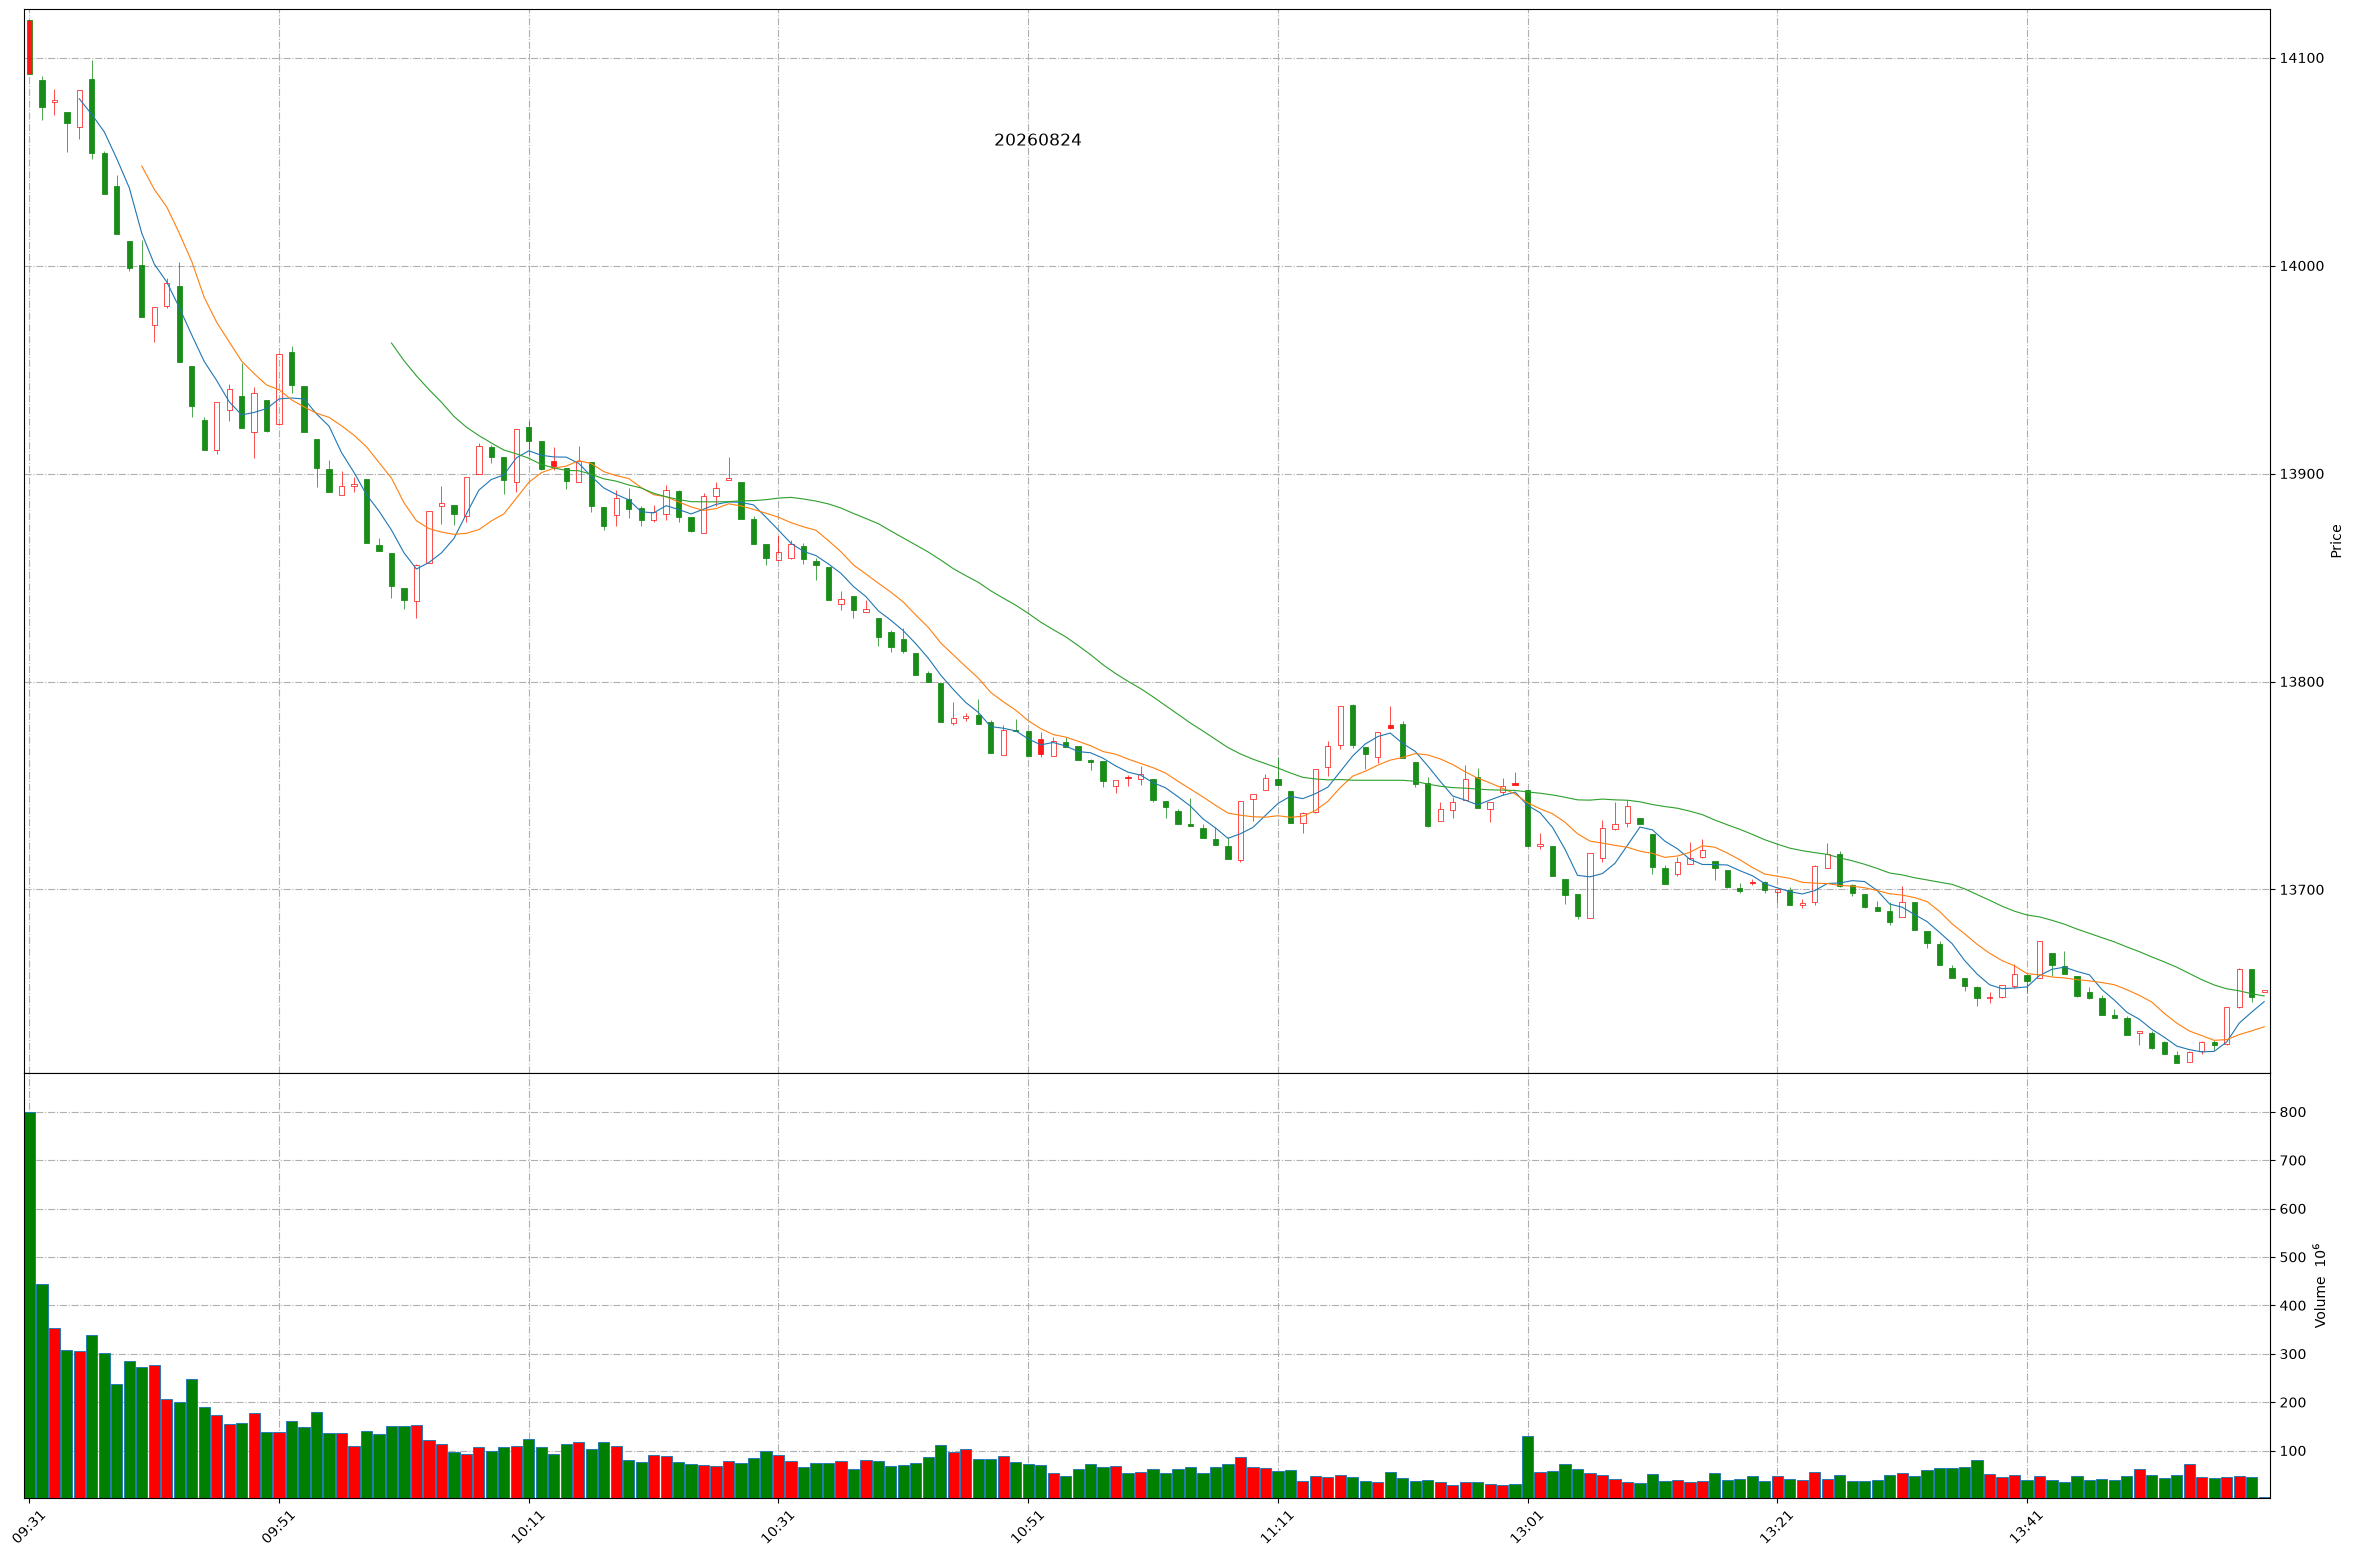
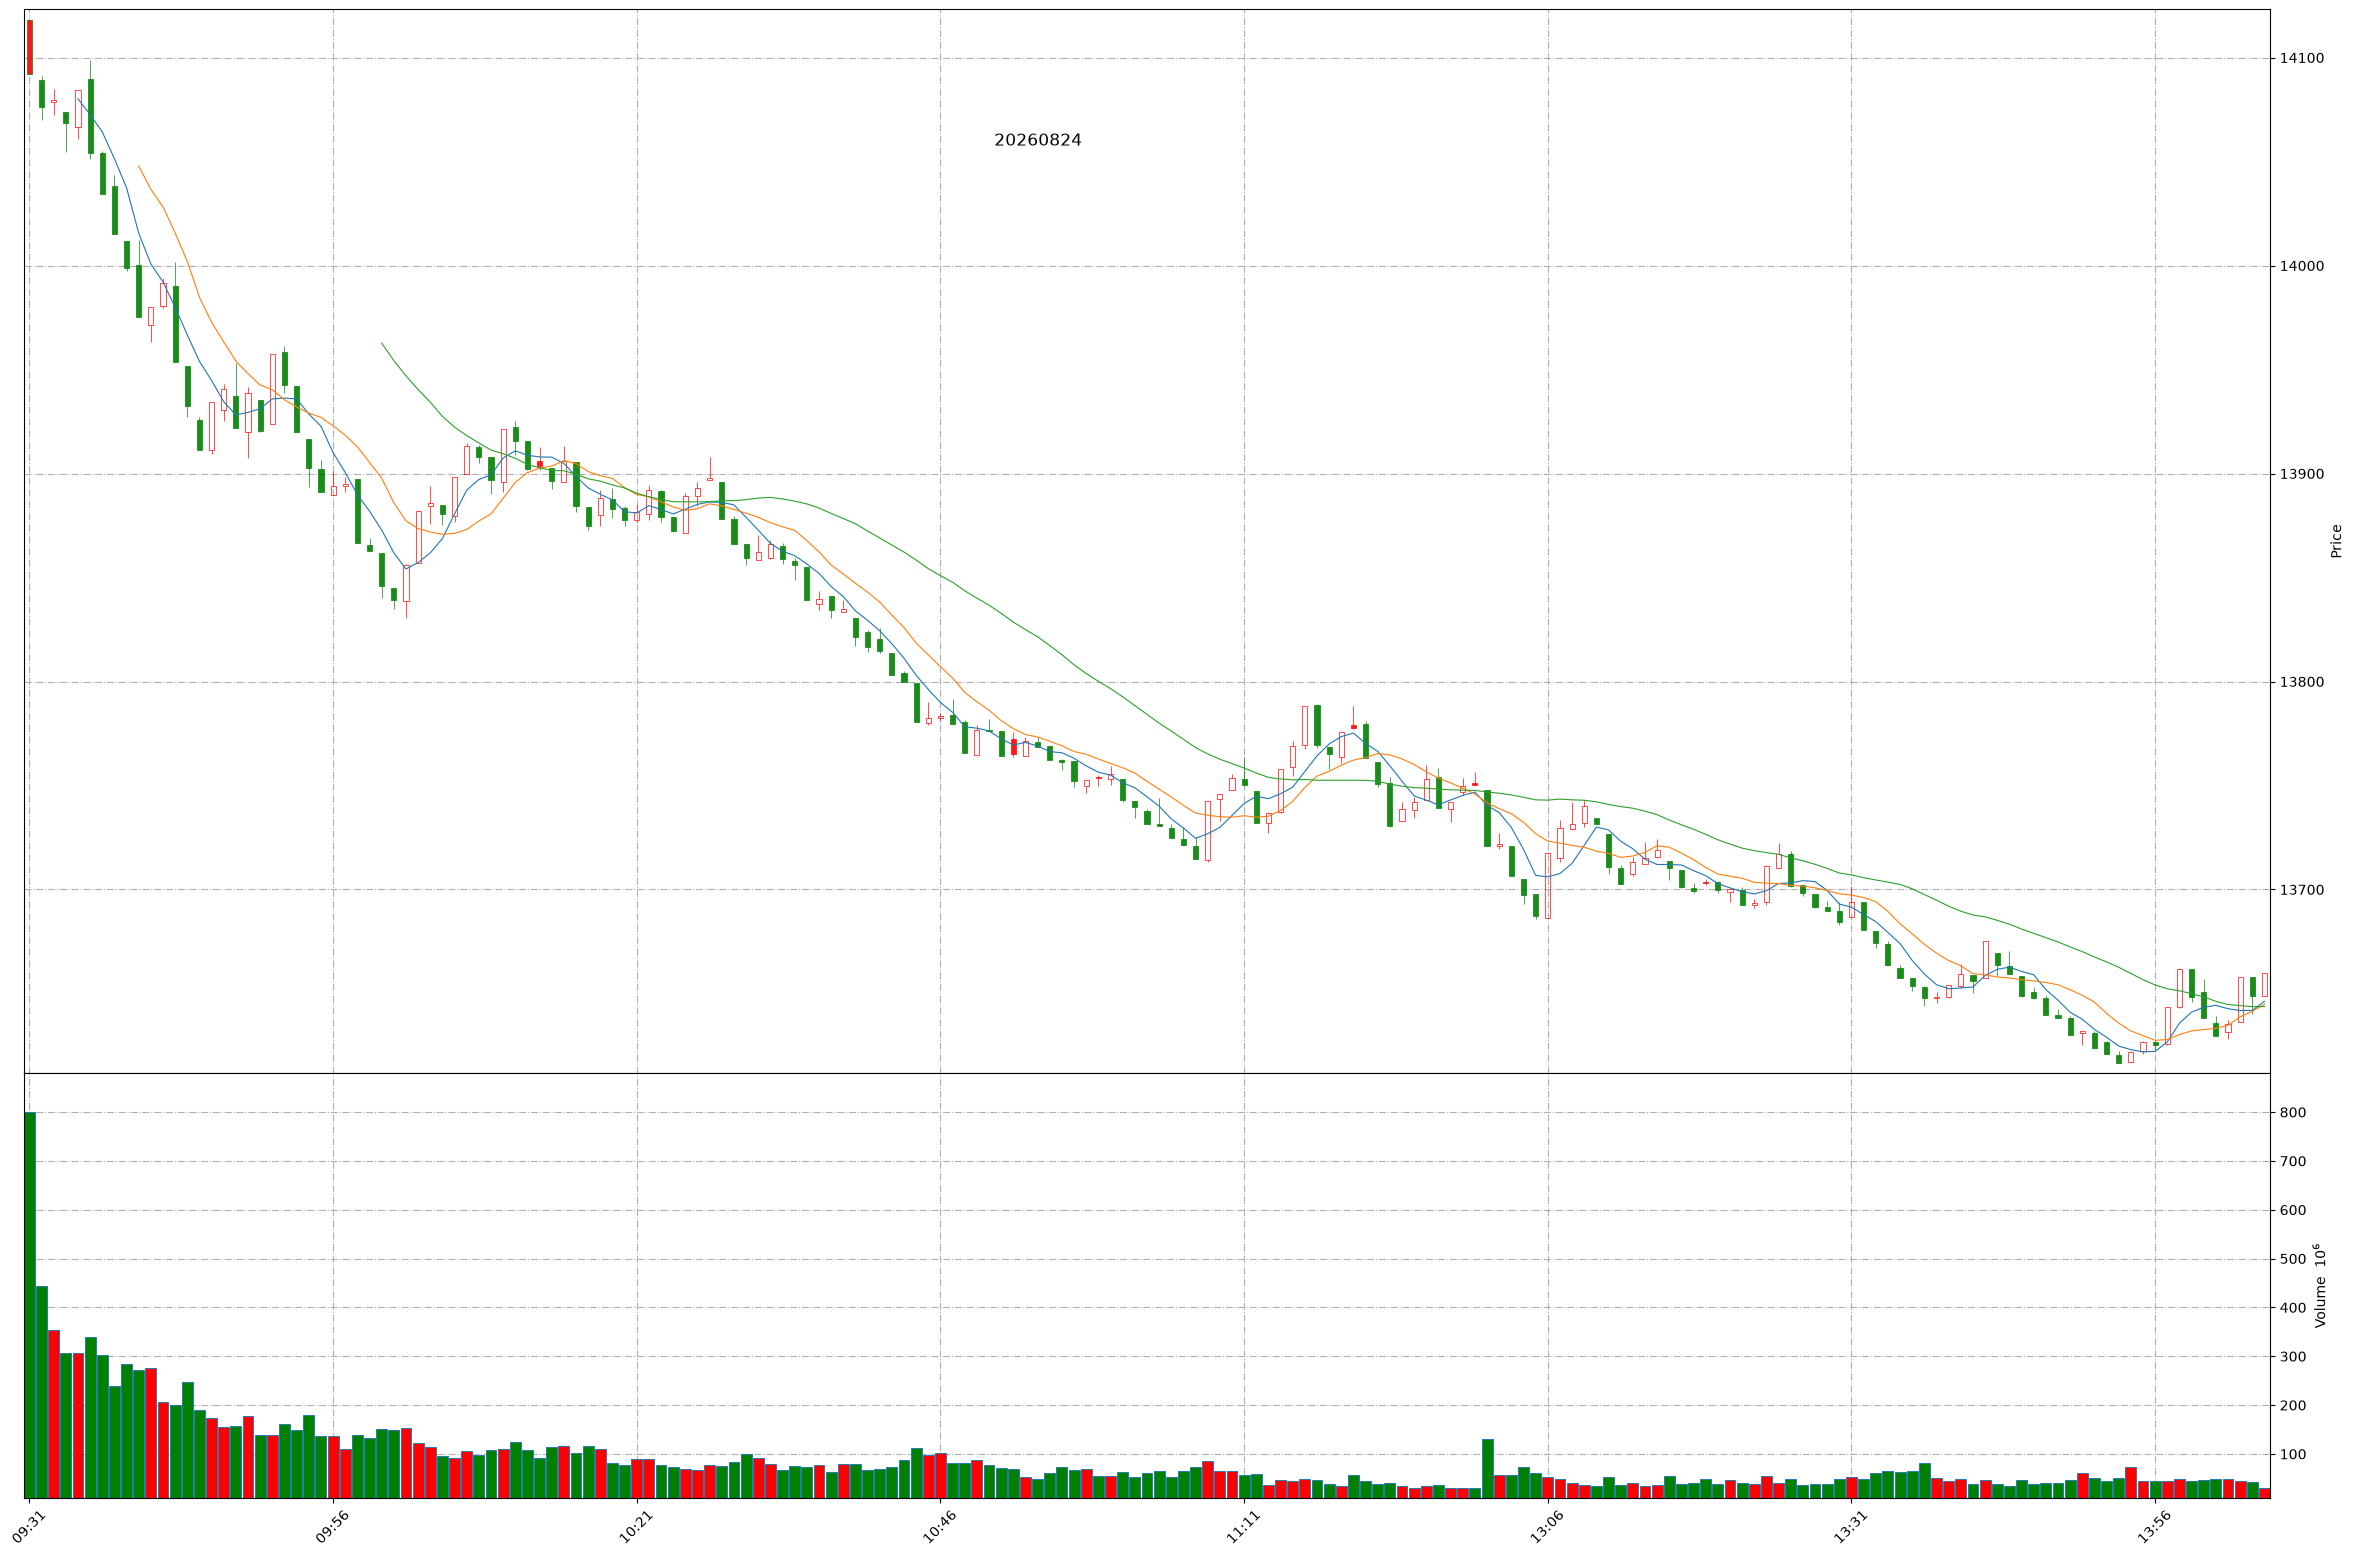
Github action update at 2026-08-24 14:04:57.

diff --git a/README.md b/README.md
@@ -1,11 +1,11 @@
 
 # Daily-A-share-market-quotes 每日 A 股指数（5min 更新）- 20260824
 
-### 上证指数 20260824 13:59
+### 上证指数 20260824 14:4
 ![](./fig/2026/8/20260824-sh000001.png)
 
-### 深证成指 20260824 13:59
+### 深证成指 20260824 14:4
 ![](./fig/2026/8/20260824-sz399001.png)
 
-### 北证50 20260824 13:59
+### 北证50 20260824 14:4
 ![](./fig/2026/8/20260824-bj899050.png)
